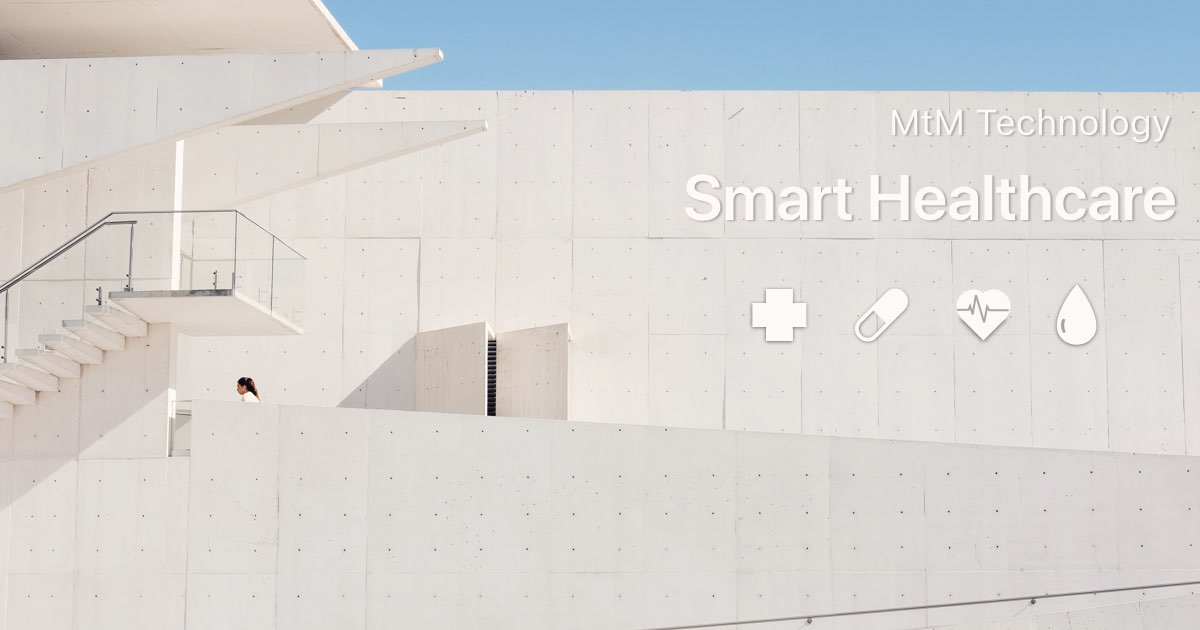
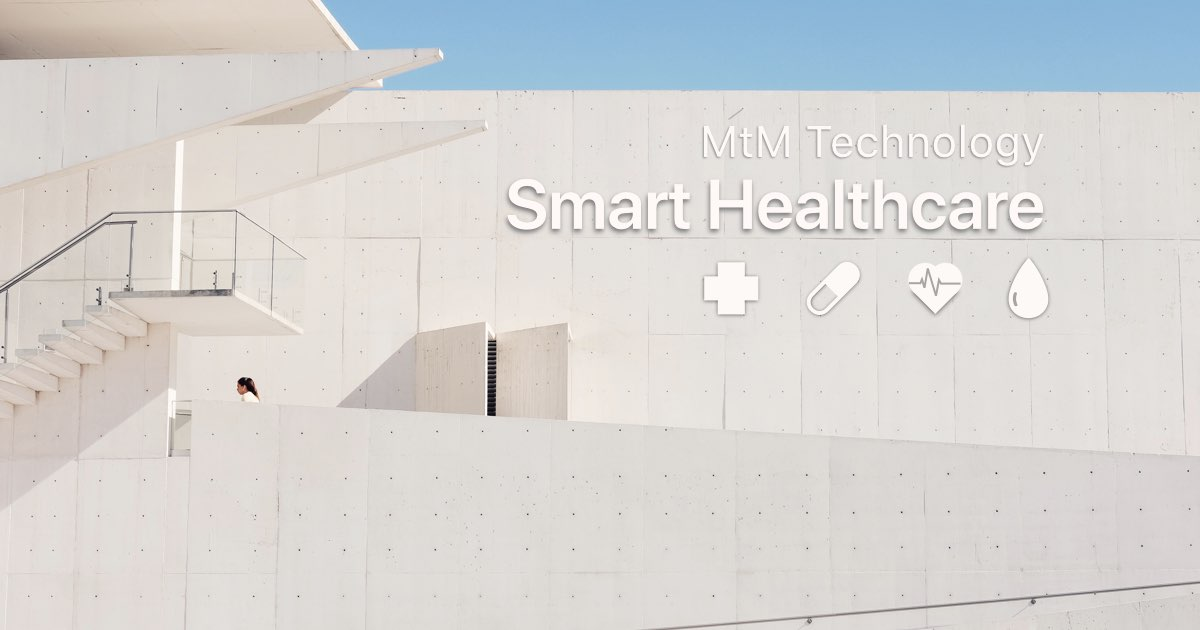
Fix typo and fine tune og image

Changed region(s): [[0.4008, 0.181, 0.9867, 0.3921], [0.5858, 0.4222, 0.925, 0.5429]]

diff --git a/health.html b/health.html
@@ -5,10 +5,8 @@
     <meta charset="utf-8">
     <meta http-equiv="X-UA-Compatible" content="IE=edge">
     <meta name="viewport" content="width=device-width, initial-scale=1">
-    <meta name="description" content="The MtM's smart healthcare solution is an open standard platform for that let you provide more convenient
-                        feature on the products of personal medical devices. Our development kits with generic IO make you
-                        evaluat just in time, and our hardware consulting service will save your time in electronic design.">
-    <meta name="og:image" content="https://www.mtmtech.com.tw/images/health-title-og.jpeg"/>
+    <meta name="description" content="The MtM's smart healthcare solution is an open standard platform for that provide the more convenient experience on your personal medical products. Our development kits with generic IO can let you evaluate new functions just in time, and our hardware consulting service will save your cost and efforts in electronic design.">
+    <meta name="og:image" content="https://www.mtmtech.com.tw/images/health-title-og.jpeg" />
     <meta name="author" content="">
 
     <link rel="icon" href="images/logo.png">
@@ -68,13 +66,13 @@
     <section class="no-padding text-center" data-parallax="scroll" data-image-src="images/health-title.jpeg" style="padding-bottom: 200px;">
         <div class="container">
             <div class="row parallax-header">
-                <div class="col-md-5 col-md-offset-6" style="color: rgba(0,0,0,0.7);">
+                <div class="col-md-6 col-md-offset-6" style="color: rgba(0,0,0,0.7);">
                     <h3></h3>
                     <h1>Smart Healthcare</h1>
                     <hr class="light thin">
-                    <p>The MtM's smart healthcare solution is an open standard platform for that let you provide more convenient
-                        feature on the products of personal medical devices. Our development kits with generic IO make you
-                        evaluat just in time, and our hardware consulting service will save your time in electronic design.
+                    <p>The MtM's smart healthcare solution is an open standard platform for that provide the more convenient experience on your
+                        personal medical products. Our development kits with generic IO can let you evaluate new functions
+                        just in time, and our hardware consulting service will save your cost and efforts in electronic design.
                     </p>
                 </div>
             </div>
@@ -137,12 +135,16 @@
     <section class="no-padding" data-parallax="scroll" data-image-src="images/health-glucometer-bg.jpg">
         <div class="parallax-window">
             <div class="container">
-                <h1>Connect your glucometer product with mobile app, wirelessly.</h1>
-                <hr class="thin light">
-                <p>Without changing the hardware design of your product, use existing interfaces, like phone jack, USB port
-                    to connect personal app by MtM's Bluetooth solution. We can help you to upgrade the existing product.
-                    By a single Bluetooth accessory, let diabete patients manage their blood suger level more conveniently
-                    and efficiently. </p>
+                <div class="row">
+                    <div class="col-md-8 col-md-offset-2">
+                        <h1>Connect your glucometer with mobile app, wirelessly.</h1>
+                        <hr class="thin light">
+                        <p>Without changing the hardware design of your product, use existing interfaces, like the phone jack,
+                            USB port to connect personal app by MtM's Bluetooth solution. We can help you to upgrade the
+                            existing product. By a single Bluetooth accessory, let diabetes patients manage their blood sugar
+                            level more conveniently and efficiently.</p>
+                    </div>
+                </div>
                 <div class="row">
                     <div class="col-xs-12 hidden-lg hidden-md hidden-sm">
                         <img src="images/health-glucometer-dongle-xs.png">
@@ -183,25 +185,16 @@
     <section data-parallax="scroll" data-image-src="images/health-bridge-bg.jpg">
         <div class="container parallax-window">
             <div class="row">
-                <div class="col-md-6 col-md-offset-3">
+                <div class="col-md-6">
                     <h1>Wireless bridge</h1>
                     <p>With the MtM wireless bridge, collecting data of measurements will be much easier. Via Bluetooth, it
-                        automatically search sensors and collect data, then send to the cloud via Wi-Fi.
+                        automatically searches sensors and collect data, then send to the cloud via Wi-Fi.
                     </p>
                     <a class="btn btn-xl btn-primary" href="https://blog.mtmtech.com.tw/2016/06/15/wireless-bridge/">Find out more</a>
                 </div>
             </div>
         </div>
     </section>
-
-    <!--<section class="no-padding">
-        <div class="parallax-window" data-parallax="scroll" data-image-src="images/health-fall-bg.jpg">
-            <div class="container text-center">
-                <h1>Fall detection</h1>
-                <img width="250px" src="images/health-fall-caution.png">
-            </div>
-        </div>
-    </section>-->
 
     <section id="contact">
         <!--Autofill by jQuery-->
